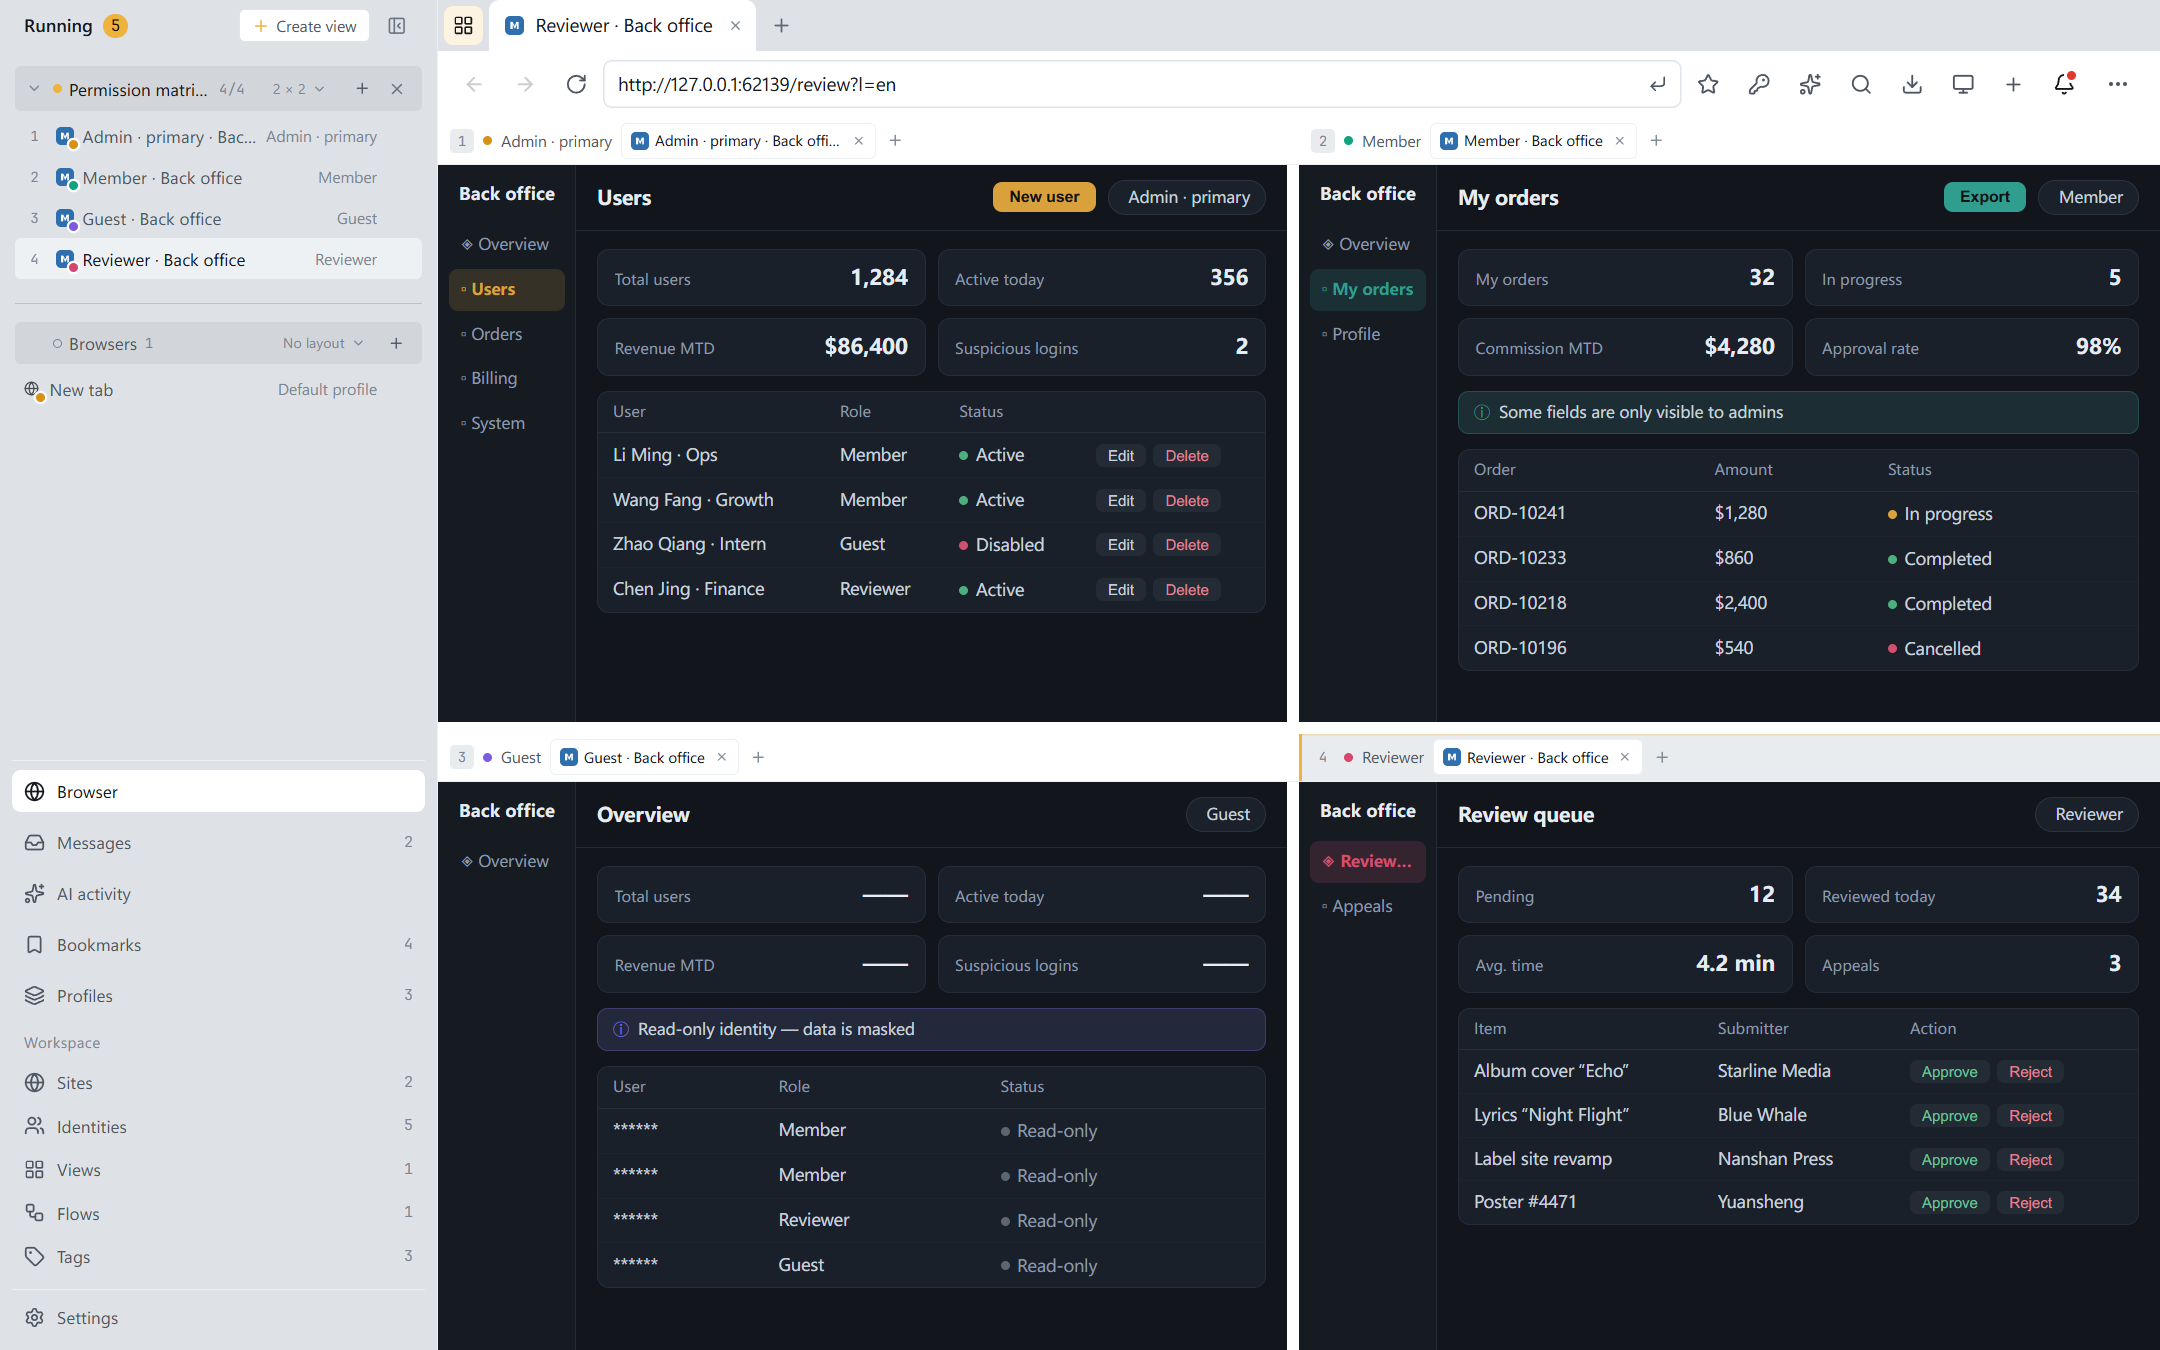
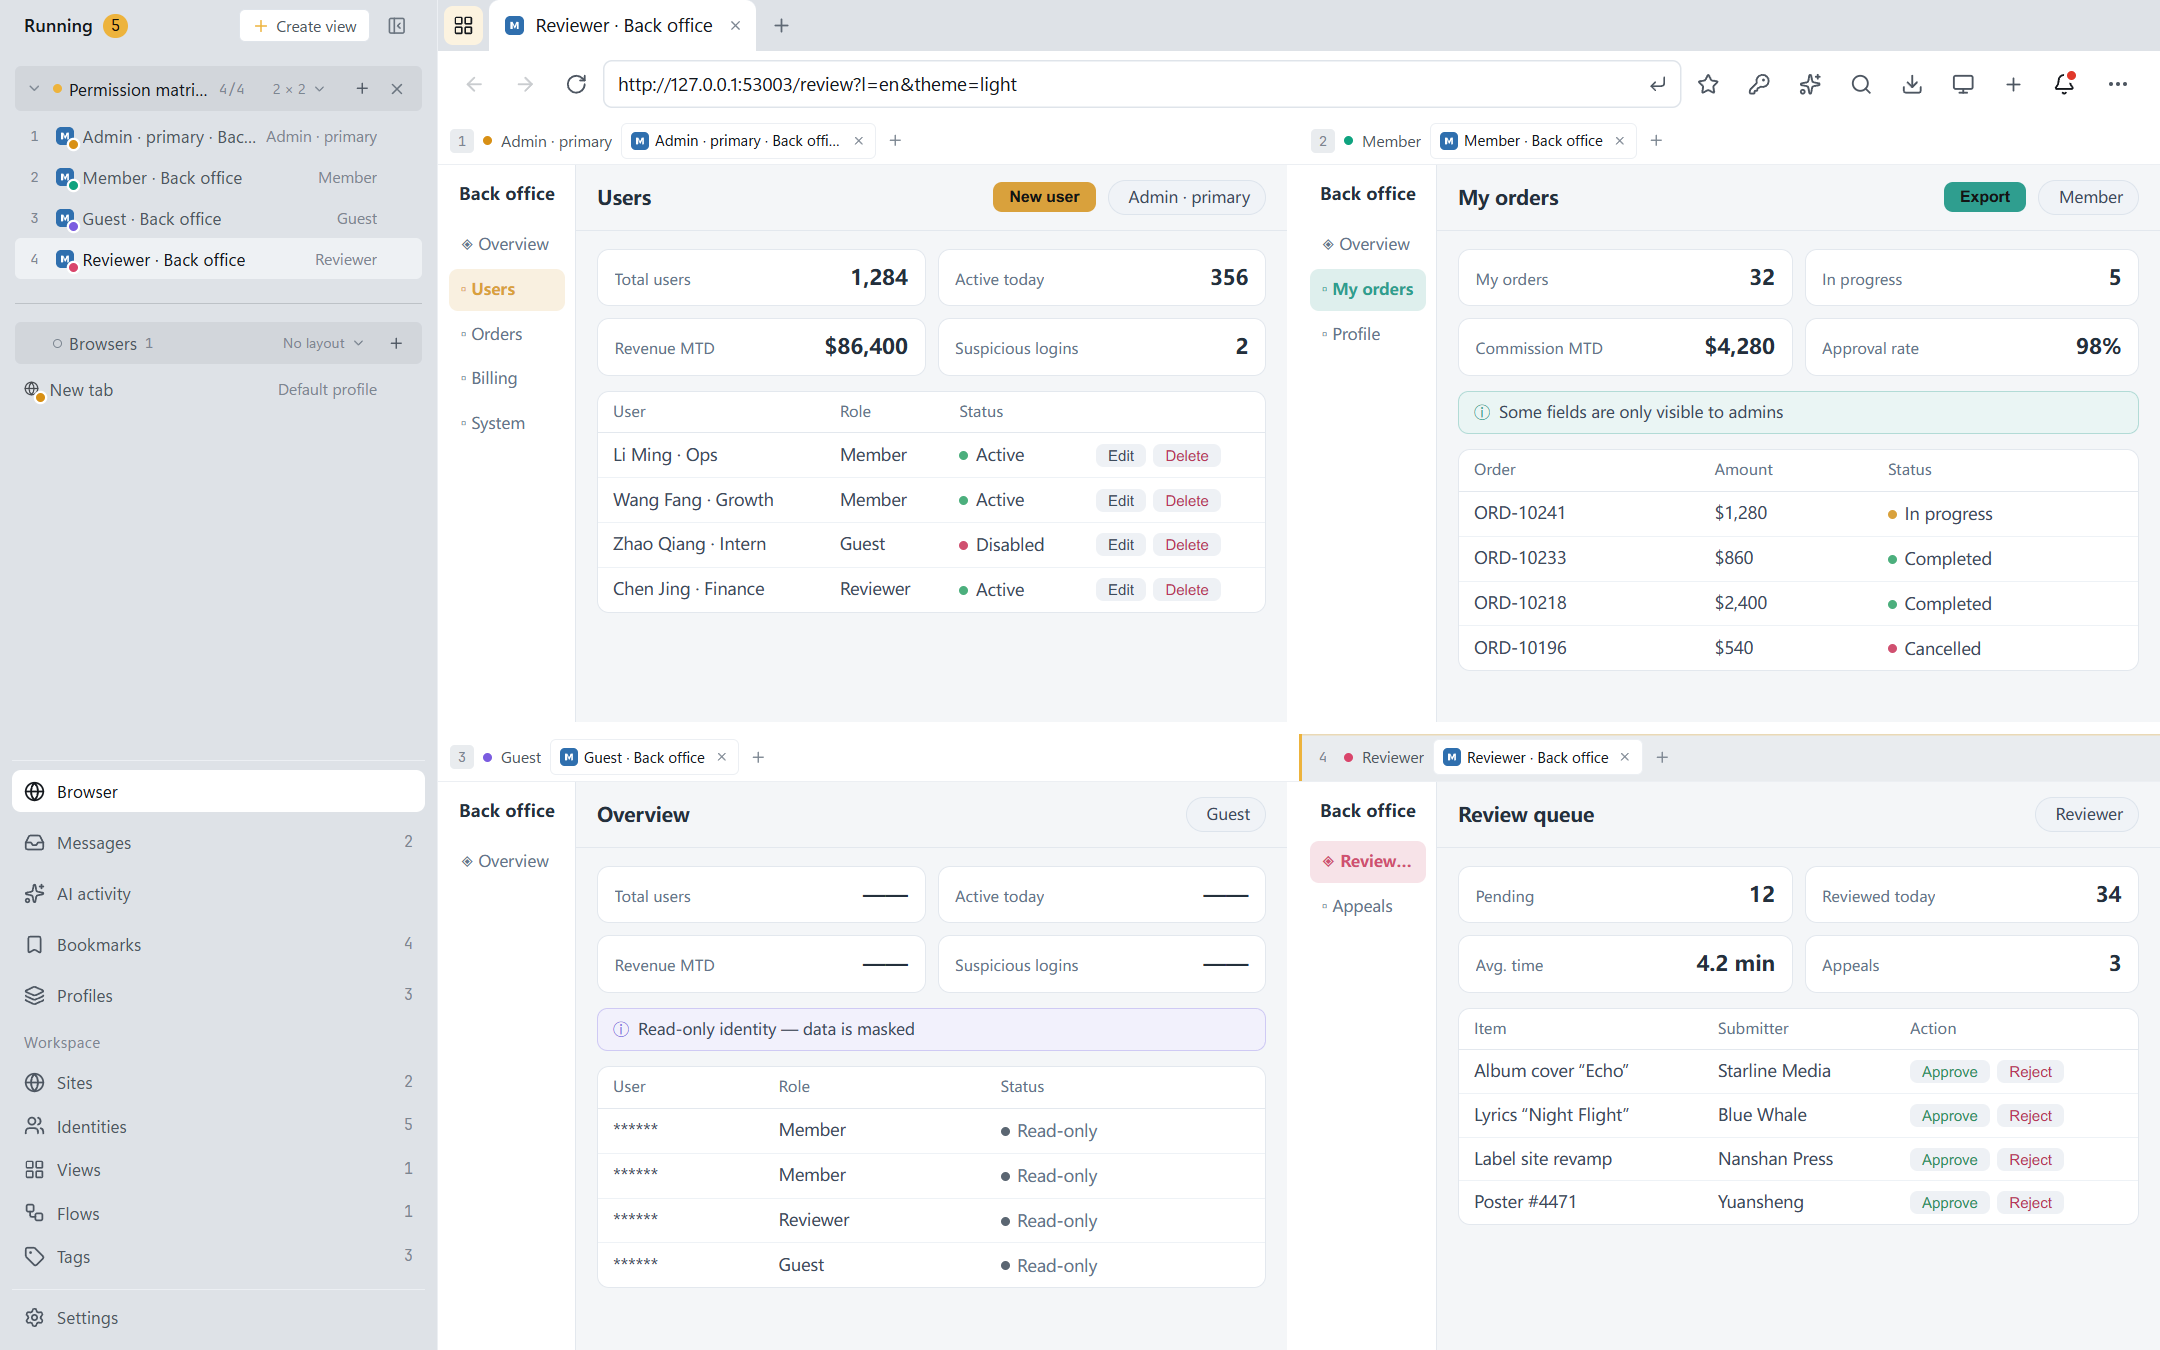
fix(root): 截图管线的主题声明真实生效，重出浅色系列

diff --git a/.agents/skills/screenshot-refresh/SKILL.md b/.agents/skills/screenshot-refresh/SKILL.md
@@ -42,7 +42,8 @@ pnpm build && pnpm screenshots
 
 - 演示数据必须中性：不得出现真实业务名、公司名或人名（AGENTS.md 硬约束 13）。
 - 视图切换靠 `[data-nav="..."]`，新增视图时给导航按钮补这个属性，否则脚本点不到。
-- 截图固定 1440×900、2x 缩放；CSS 改版后重点看窄宽度下的断行与溢出。
+- 截图视口固定 1440×900，缩放取机器原生 DPR（脚本实测 `devicePixelRatio`，
+  与 webview 页面 1:1 对齐）；CSS 改版后重点看窄宽度下的断行与溢出。
 - `seed()` 必须写一份 `mcp.json` 且保持 `enabled: false`，否则截出来的是一个真实可用的
   Token，等于把令牌发到公开仓库。
 - 脚本只杀自己 spawn 的 PID，并删除自己的临时目录；不要改成按进程名清理。
